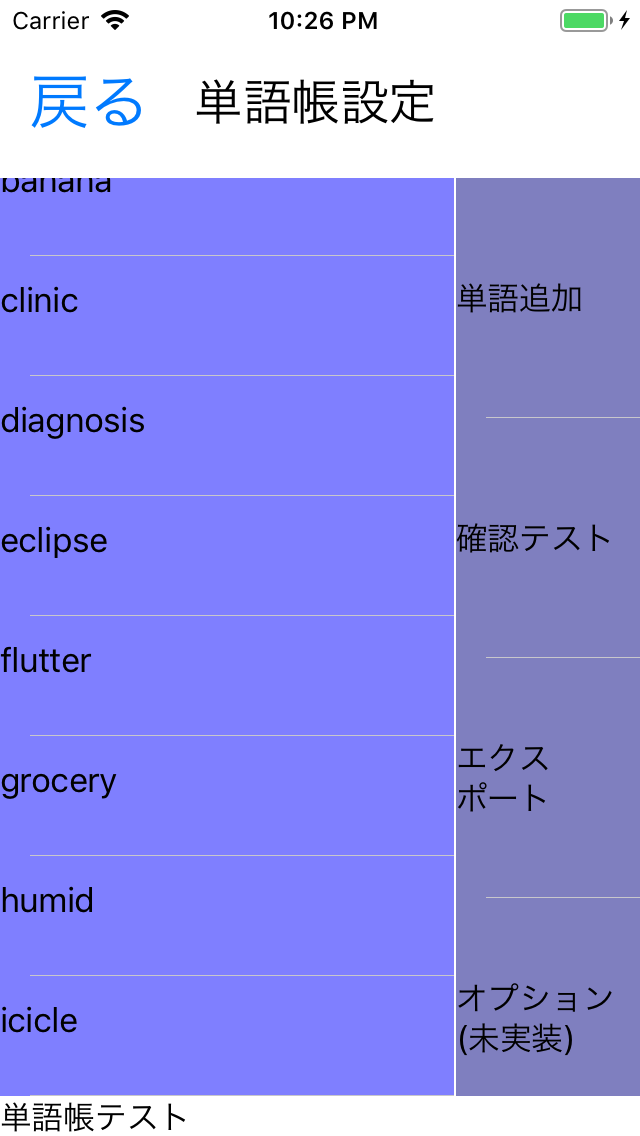
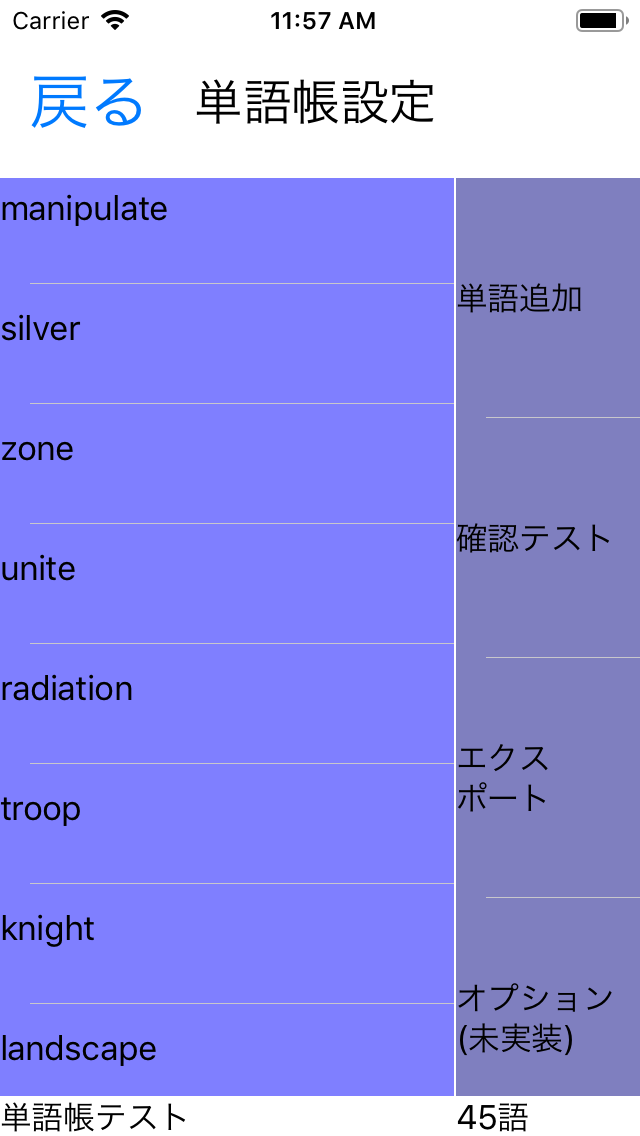
単語帳設定画面に現在登録されている単語の語数を表示

diff --git a/EnglishWords/EnglishWords/ConfigureWordNoteBookViewController.swift b/EnglishWords/EnglishWords/ConfigureWordNoteBookViewController.swift
@@ -15,6 +15,7 @@ class ConfigureWordNoteBookViewController: UIViewController, UITableViewDelegate
     @IBOutlet var table:UITableView!
     @IBOutlet var sidetable:UITableView!
     @IBOutlet var wordNote: UILabel!
+    @IBOutlet var wordNum: UILabel!
 
     var wordlist: [WordNote] = []
     var card: WordNote?
@@ -29,8 +30,10 @@ class ConfigureWordNoteBookViewController: UIViewController, UITableViewDelegate
         let results = realm.objects(WordNote.self).filter("wordnotebook.wordNoteBookId == %@",wordnotebook?.wordNoteBookId).sorted(byKeyPath: "wordidx", ascending: true)
         wordlist = Array(results)
 
-        //単語帳名ラベルに単語帳名を登録する
+        //単語帳名ラベルに単語帳名を設定する
         wordNote.text = wordnotebook?.wordNoteBookName
+        //登録語数ラベルに登録語数を設定する
+        wordNum.text =  wordlist.count.description + "語"
 
         //sidetableのラベルを折り返す設定
         sidetable.estimatedRowHeight=120
